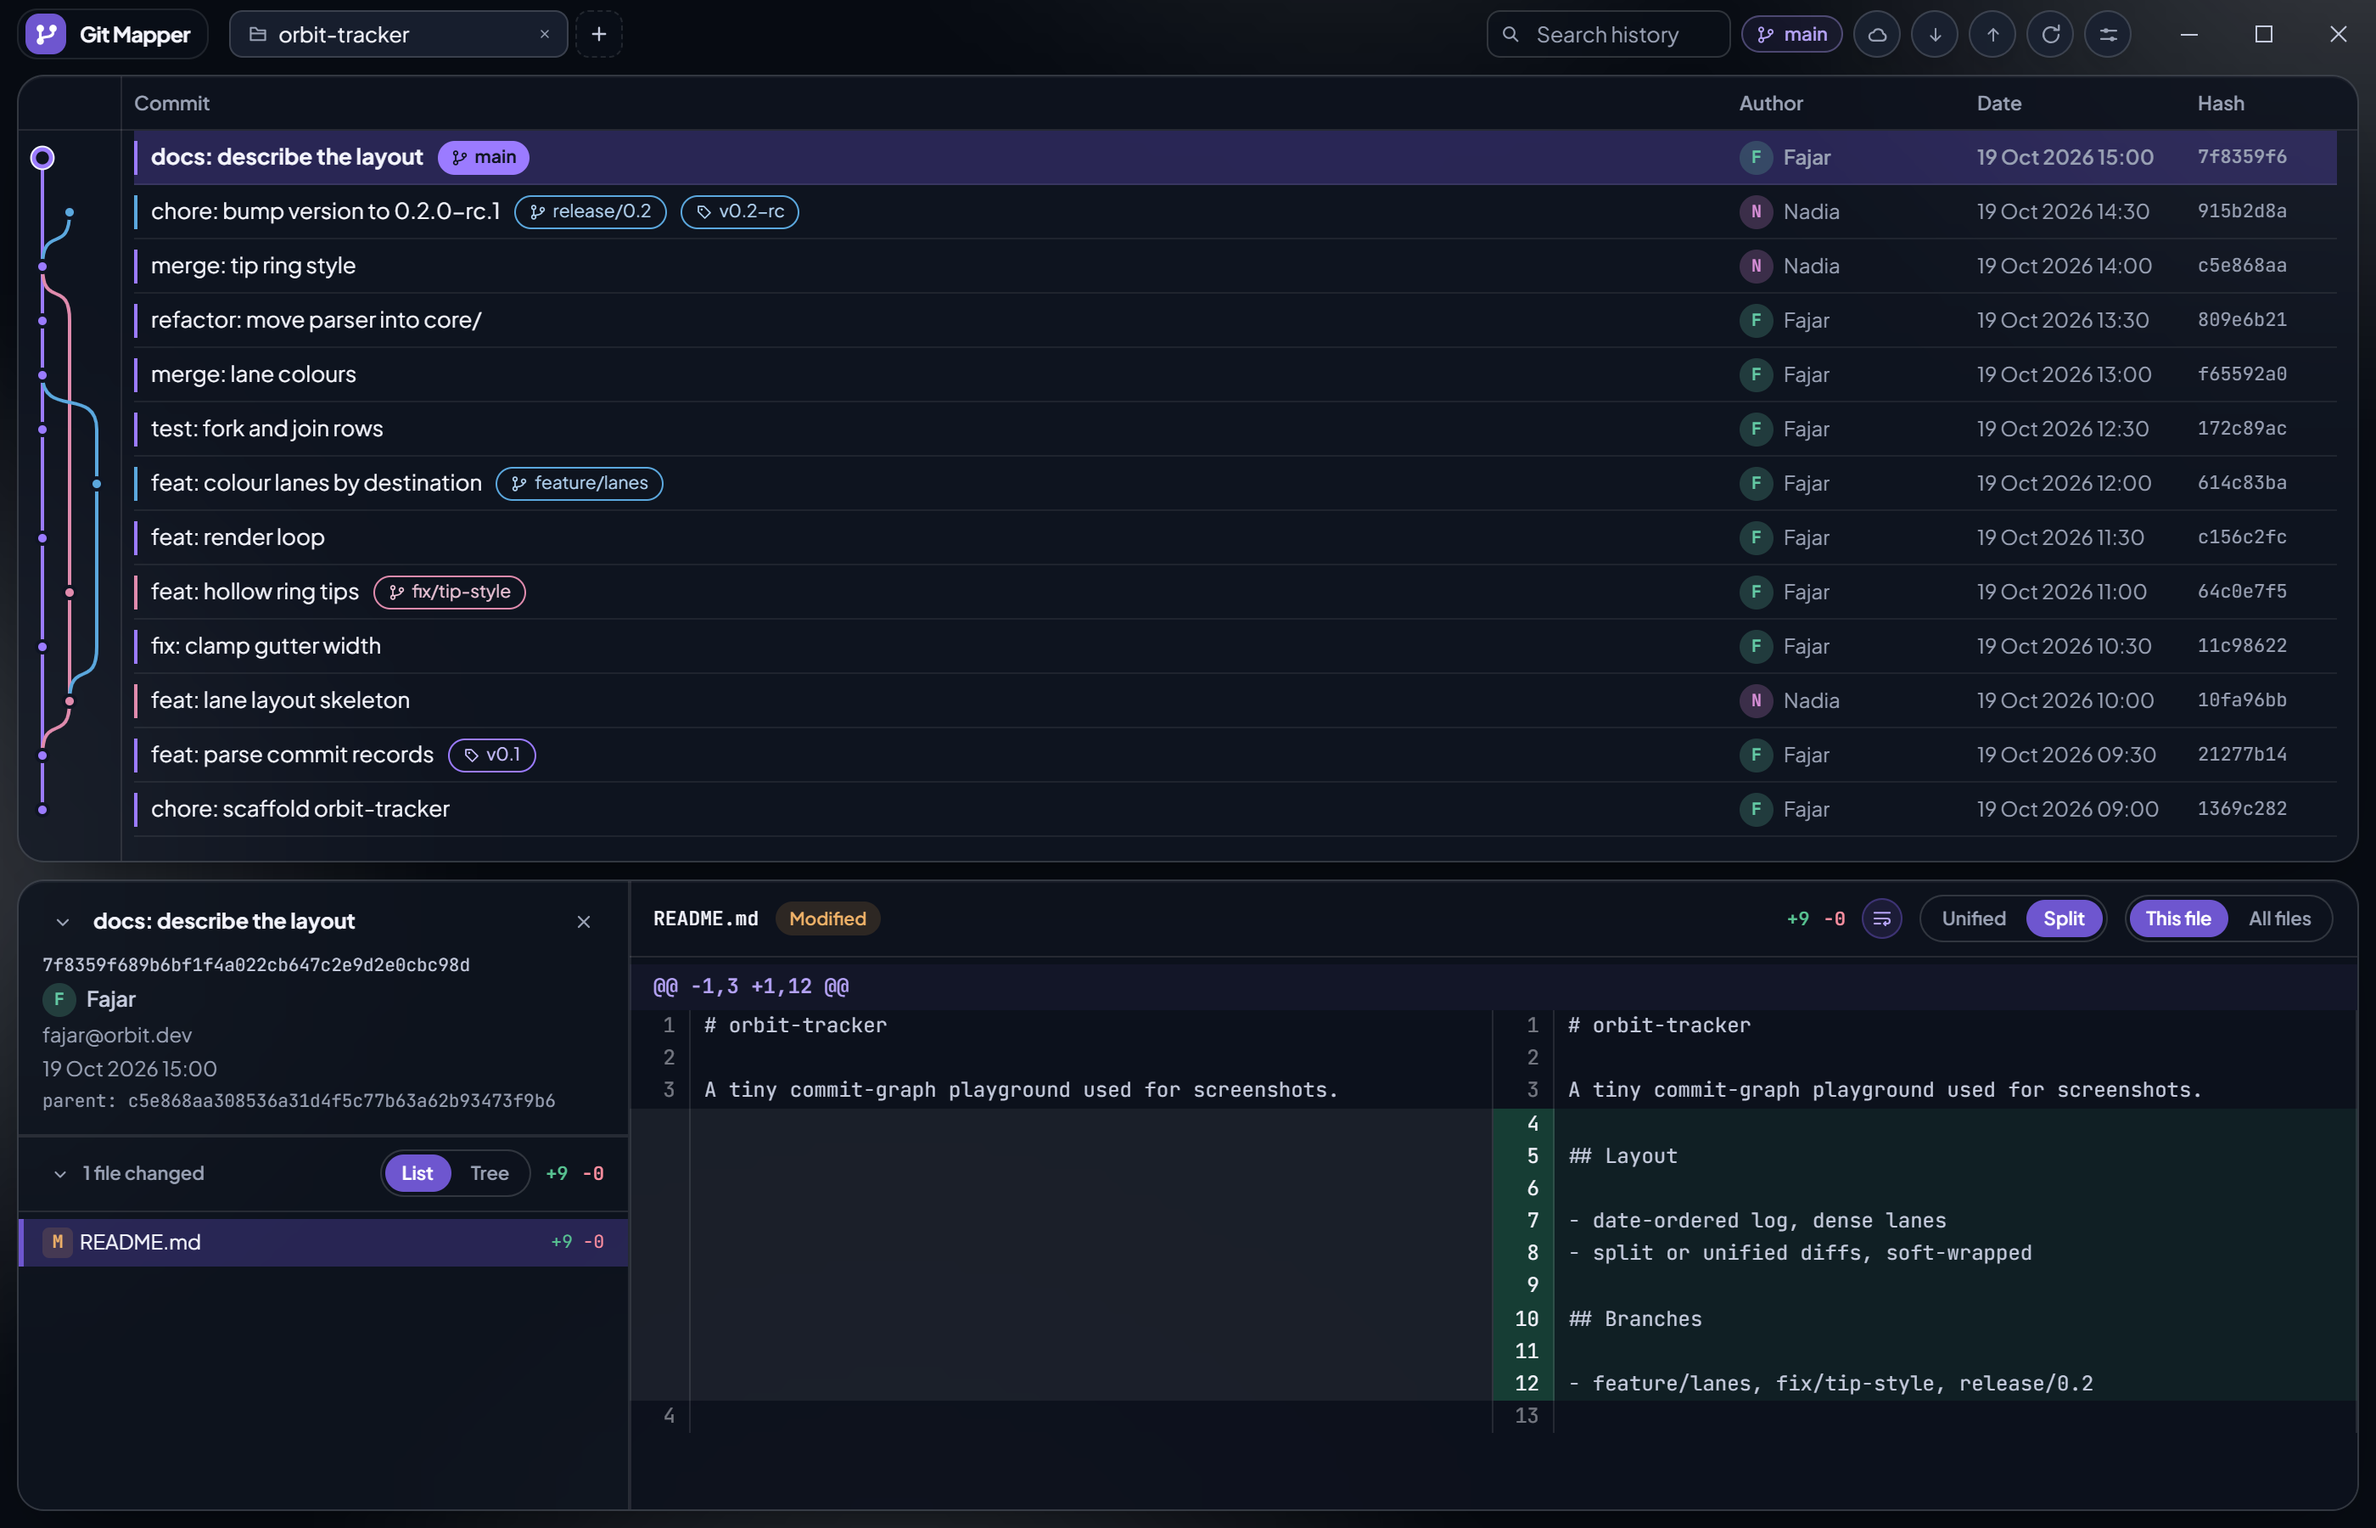
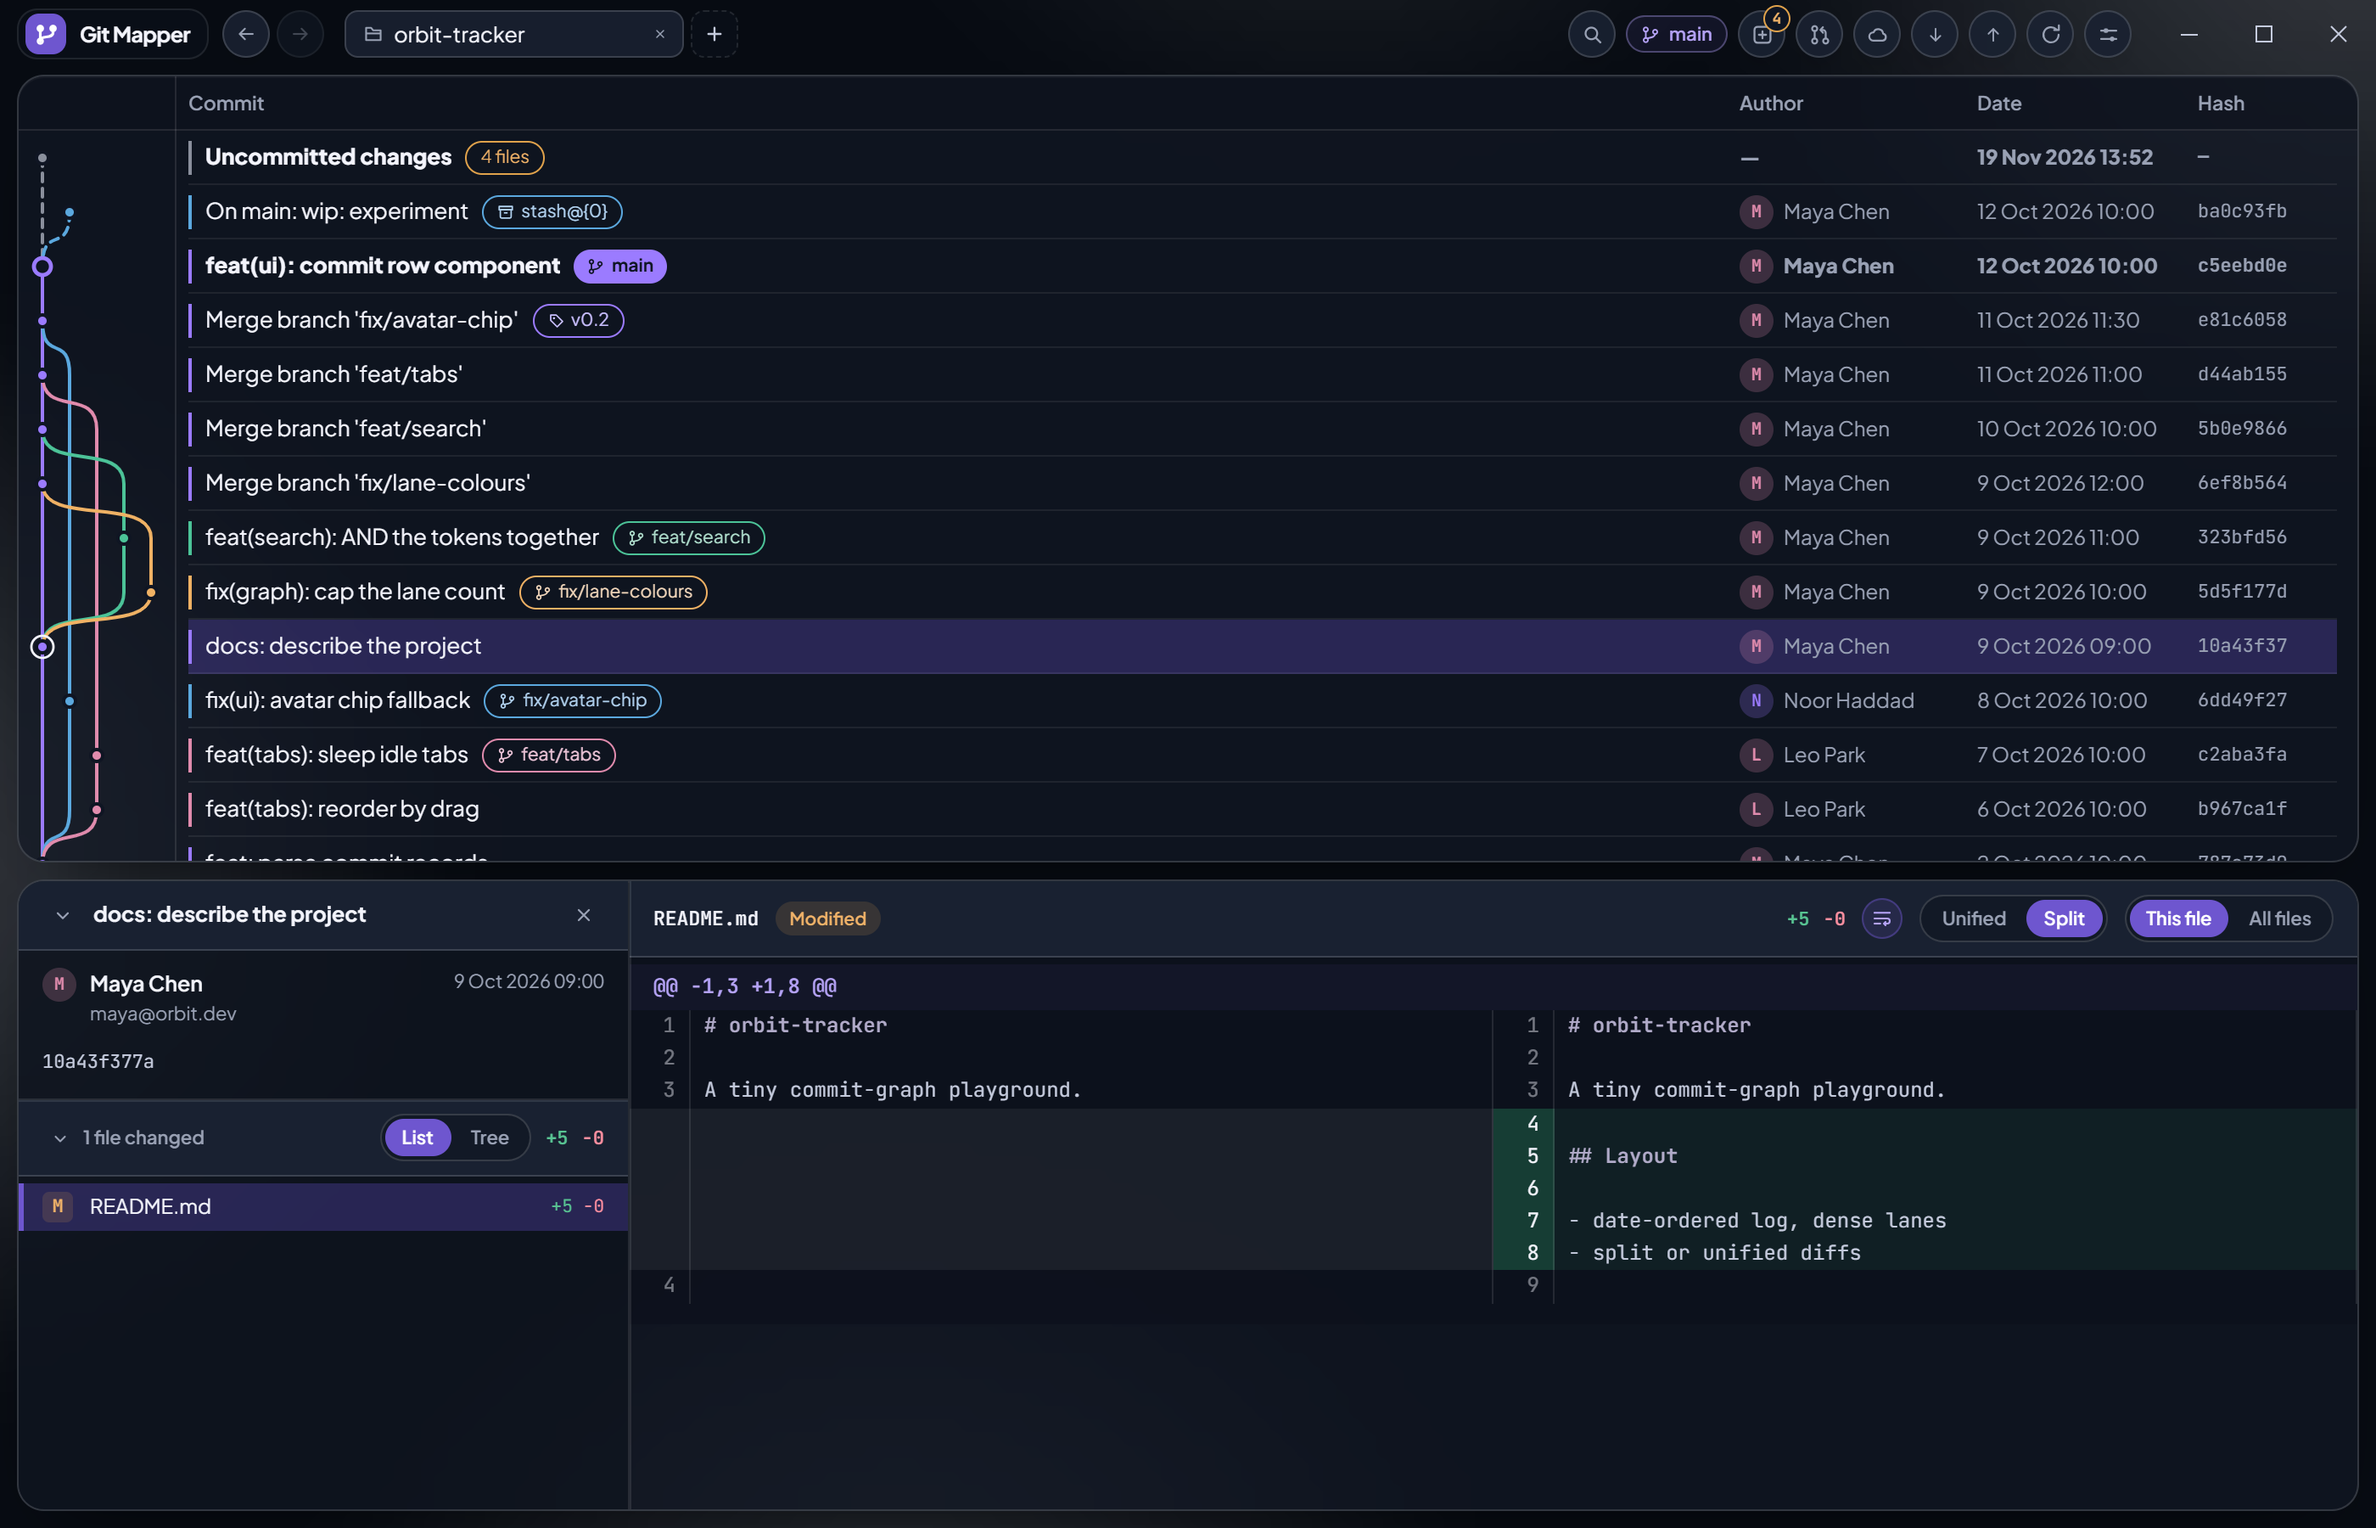
docs: retake the screenshots from the 1.7.0 UI and update the README features
Screenshots are captured from the running app against demo repos (graph, stage, hunk, conflict, split, light and dark). The README now covers the tab shortcuts and Ctrl+P switcher, the find bar, Ctrl+Enter to commit and pull request badges with Create pull request, and no longer lists pull requests as not built.

diff --git a/README.md b/README.md
@@ -55,8 +55,11 @@ The links above always resolve to the newest release.
   or drag it wider on lane-heavy histories.
 - **Repository tabs.** Each tab remembers its selected commit, file and panel state; drag tabs
   into any order. Tabs you leave alone go to sleep to save memory and wake on click.
-- **Search.** Filter the loaded history by hash, message, author or ref name. Ctrl+F focuses the
-  title-bar box, Esc clears.
+- **Keyboard first.** Ctrl+T, Ctrl+W, Ctrl+1–9 and Ctrl+Tab drive the tabs, Ctrl+P jumps to any tab
+  by name or number, and Alt+Left / Alt+Right step back and forward through your selections.
+  Every shortcut is listed in Settings, and in the tooltip of the button it belongs to.
+- **Search.** Ctrl+F opens a floating find bar over the loaded history: match by hash, message,
+  author or ref name, the other rows dim, Enter and Shift+Enter step through the hits, Esc closes.
 - **Your columns, your way.** Resize the commit / author / date columns, drag their headers to
   reorder them, right-click a header to hide one.
 - **Stashes as rows.** Each stash sits above the commit it was taken on. Apply, pop or drop from
@@ -85,7 +88,8 @@ The links above always resolve to the newest release.
 
 - **Stage, commit, undo.** The `Uncommitted changes` row opens a staging rail: stage, unstage or
   discard by file, write the message and commit without leaving the window. Undo the tip commit
-  and its files come back staged. The rail docks itself when the tree goes clean.
+  and its files come back staged. Ctrl+Enter commits from the message box. The rail docks itself
+  when the tree goes clean.
 - **Hunks and single lines.** Stage, unstage or discard one hunk, or tick individual `+`/`-`
   lines and act on just those. Staged and unstaged sides are shown one at a time, like VS Code.
 - **Sync.** Fetch, pull (fast-forward only) and push the checked-out branch from the counters
@@ -95,6 +99,9 @@ The links above always resolve to the newest release.
 - **Merge and resolve.** Merge a local branch from its pill's menu. Conflicts land in the rail:
   take current or incoming per file, or open the file with its conflict blocks inline and choose
   current, incoming or both per block. Finish with git's own message, or abort.
+- **Pull requests.** GitHub pull requests and GitLab merge requests show as badges on branch
+  pills and in a title-bar list (open, merged, searchable; read-only). Right-click a branch and pick
+  **Create pull request…** to open the provider's new-PR page for it in your browser.
 - **Copy** hashes and branch, remote, tag and stash names from the right-click menu.
 
 **Stays out of your way**
@@ -133,7 +140,7 @@ the same commands at `POST /api/git`, which is why the app also runs in a plain 
 
 - Searching history beyond the loaded 500-commit window.
 - Rebasing and cherry-picking.
-- Pull requests (a `gh` passthrough is the planned next slice).
+- Pull request diffs, and closing or merging them from the app (the badges and list are read-only).
 
 ## Support
 
